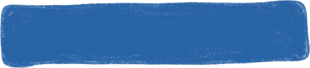
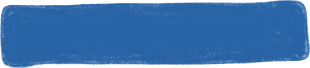
ボタンの背景画の修正

diff --git a/style.css b/style.css
@@ -6,6 +6,7 @@
 html {
   scroll-snap-type: block mandatory;
   scroll-snap-stop: always;
+  -webkit-overflow-scrolling: touch;
 }
 body {
   color: var(--main-color);
@@ -45,10 +46,11 @@ h2 {
 }
 button {
   background-image: url('./assets/btn.png');
-  background-size: cover;
+  background-size: 100% auto;
   background-repeat: no-repeat;
   font-family: 'Zen Maru Gothic', sans-serif;
   color: #fff;
+  background-color: inherit;
   border: none;
   font-size: 1.4rem;
   padding: 1rem 2rem;
